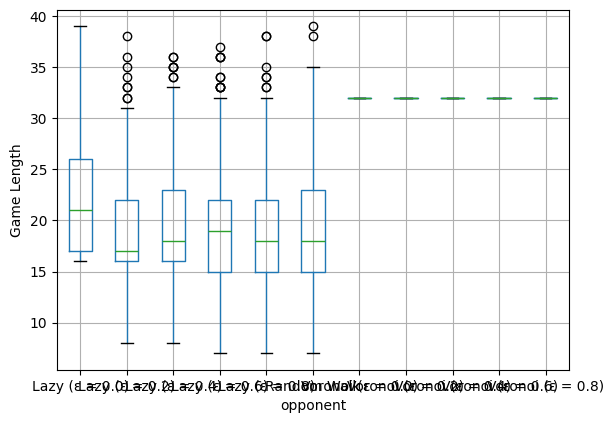
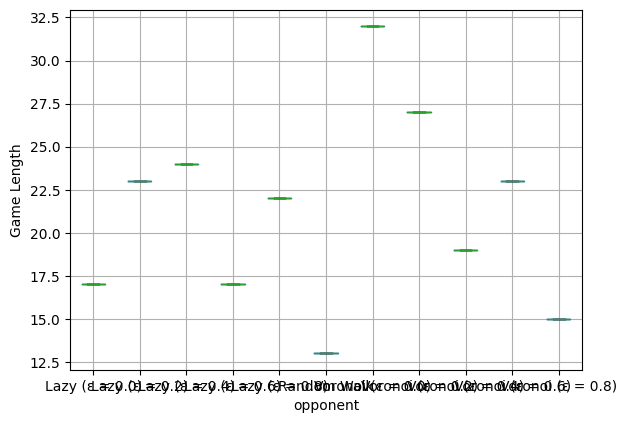
Final commit before submitting

diff --git a/src/backend/main_backend.py b/src/backend/main_backend.py
@@ -303,6 +303,7 @@ class SnakeGame:
         self.__dummy_agent = VoronoiAgent(2, 0)
         self.voronoi_ratios = []
         self.k = 0
+        self.compute_voronoi = False
 
     def reset(self):
 
@@ -339,39 +340,40 @@ class SnakeGame:
         x1, y1 = self.pos1
         x2, y2 = self.pos2
 
-        # bfs1 = self.__dummy_agent.bfs(self.pos1, self.state.copy())
-        # bfs2 = self.__dummy_agent.bfs(self.pos2, self.state.copy())
+        if self.compute_voronoi:
+            bfs1 = self.__dummy_agent.bfs(self.pos1, self.state.copy())
+            bfs2 = self.__dummy_agent.bfs(self.pos2, self.state.copy())
 
-        # interacting = ((bfs1 != 0) & (bfs2 != 0)).any()
+            interacting = ((bfs1 != 0) & (bfs2 != 0)).any()
 
-        # dummy_state1 = self.state.copy()
-        # dummy_state1[bfs1 < bfs2] = 0
-        # dummy_state1[bfs1 >= bfs2] = 1
-        # dummy_state1[self.state != 0] = 1
-        # paths = compute_paths(dummy_state1, (3, 3))
-        # try:
-        #     hamiltonian1 = max(paths, key=lambda l: len(l))
-        # except:
-        #     hamiltonian1 = []
+            dummy_state1 = self.state.copy()
+            dummy_state1[bfs1 < bfs2] = 0
+            dummy_state1[bfs1 >= bfs2] = 1
+            dummy_state1[self.state != 0] = 1
+            paths = compute_paths(dummy_state1, (3, 3))
+            try:
+                hamiltonian1 = max(paths, key=lambda l: len(l))
+            except:
+                hamiltonian1 = []
 
-        # dummy_state2 = self.state.copy()
-        # dummy_state2[bfs1 > bfs2] = 0
-        # dummy_state2[bfs1 <= bfs2] = 1
-        # dummy_state2[self.state != 0] = 1
-        # paths = compute_paths(dummy_state2, (3, 3))
-        # try:
-        #     hamiltonian2 = max(paths, key=lambda l: len(l))
-        # except:
-        #     hamiltonian2 = []
+            dummy_state2 = self.state.copy()
+            dummy_state2[bfs1 > bfs2] = 0
+            dummy_state2[bfs1 <= bfs2] = 1
+            dummy_state2[self.state != 0] = 1
+            paths = compute_paths(dummy_state2, (3, 3))
+            try:
+                hamiltonian2 = max(paths, key=lambda l: len(l))
+            except:
+                hamiltonian2 = []
 
-        # self.voronoi_ratios.append({
-        #     'k': self.k,
-        #     '1': (np.sum(dummy_state1 == 0), len(hamiltonian1)),
-        #     '2': (np.sum(dummy_state2 == 0), len(hamiltonian2)),
-        #     'interacting' : interacting
-        # })
+            self.voronoi_ratios.append({
+                'k': self.k,
+                '1': (np.sum(dummy_state1 == 0), len(hamiltonian1)),
+                '2': (np.sum(dummy_state2 == 0), len(hamiltonian2)),
+                'interacting' : interacting
+            })
 
-        # self.k += 1
+            self.k += 1
 
         self.state[x1, y1] = self.agent1.id
         self.state[x2, y2] = self.agent2.id
@@ -486,7 +488,6 @@ def compute_paths(G: np.array, pos, seen=None,path=None):
     return paths
 
 def generate_plot(data):
-    
     data.boxplot(column=['hamiltonian length'], by='voronoi cell size')
 
     cell_sizes = sorted(data['voronoi cell size'].unique().tolist())
@@ -514,11 +515,10 @@ def generate_plot_game_scores(data):
 
 if __name__ == "__main__":
 
-    # n = 5
-    # G = -np.ones((n+2, n+2))
-    # G[1:n+1, 1:n+1] = np.zeros((n, n))
-
     scores = []
+    ratios = []
+    num_repeats = 1
+    compute_voronoi = False
 
     opponents = [
         ("Random Walk", lambda: AvoidAgent(id=2)),
@@ -535,12 +535,13 @@ if __name__ == "__main__":
     ]
 
     for opp, a2 in opponents:
-        for i in range(100):
+        for i in range(num_repeats):
 
             agent1 = VoronoiAgent(id=1, forward_steps=1)
             agent2 = a2()
 
             game = SnakeGame(agent1, agent2, n=9)
+            game.compute_voronoi = compute_voronoi
             result = game.play()
             scores.append({
                 "score" : 1 if result == Result.WIN else 0,
@@ -549,101 +550,33 @@ if __name__ == "__main__":
                 "opponent" : opp
             })
 
-    df = pd.DataFrame(scores)
+            if compute_voronoi:
+                for d in game.voronoi_ratios:
+                    bfs1, h1 = d['1']
+                    bfs2, h2 = d['2']
 
+                    if h1 > 0 and bfs1 > 0:
+                        ratios.append({'hamiltonian length' : h1, 'voronoi cell size' : bfs1})
+
+                    if h2 > 0 and bfs2 > 0:
+                        ratios.append({'hamiltonian length' : h2, 'voronoi cell size' : bfs2})
+
+    # generate a sample game gif
+    agent1 = VoronoiAgent(id=1, forward_steps=1)
+    agent2 = EpsilonGreedyAgent(VoronoiAgent(id=2, forward_steps=1), epsilon=0.1)
+    game = SnakeGame(agent1, agent2, n=50)
+    result = game.play()
+    game.render_game("./data/game_viz.gif")
+
+    # print win statistics
+    df = pd.DataFrame(scores)
     print(df.groupby("opponent").agg(["mean", "std"]))
 
-    # generate_plot_game_scores(pd.DataFrame(scores))
-
-
-    # paths = compute_paths(G, (3, 3))
-    # hamiltonian = max(paths, key=lambda l: len(l))
-    # print(hamiltonian)
-
-    # agent1 = EpsilonGreedyAgent(LazyAgent(id=1, start_move=Move.DOWN), 0.1)
-    # agent2 = TabularAgent(id=2, n=50, gamma=0.99)
-    # agent1 = VoronoiAgent(id=1, forward_steps=1)
-    # agent2 = VoronoiAgent(id=2, forward_steps=2)
-    # agent2 = EpsilonGreedyAgent(LazyAgent(id=1, start_move=Move.DOWN), 0.1)
-
-    # ratios = []
-
-    # for i in range(1000):
-    #     agent1 = VoronoiAgent(id=1, forward_steps=1)
-    #     agent2 = EpsilonGreedyAgent(LazyAgent(id=1, start_move=Move.DOWN), 0.1)
-
-    #     game = SnakeGame(agent1, agent2, n=6)
-    #     result = game.play()
-
-    #     for d in game.voronoi_ratios:
-    #         bfs1, h1 = d['1']
-    #         bfs2, h2 = d['2']
-
-    #         if h1 > 0 and bfs1 > 0:
-    #             ratios.append({'hamiltonian length' : h1, 'voronoi cell size' : bfs1})
-
-    #         if h2 > 0 and bfs2 > 0:
-    #             ratios.append({'hamiltonian length' : h2, 'voronoi cell size' : bfs2})
-
-    #     # =========
-    #     agent1 = VoronoiAgent(id=1, forward_steps=1)
-    #     agent2 = VoronoiAgent(id=2, forward_steps=1)
-
-    #     game = SnakeGame(agent1, agent2, n=6)
-    #     result = game.play()
-
-    #     for d in game.voronoi_ratios:
-    #         bfs1, h1 = d['1']
-    #         bfs2, h2 = d['2']
-
-    #         if h1 > 0 and bfs1 > 0:
-    #             ratios.append({'hamiltonian length' : h1, 'voronoi cell size' : bfs1})
-
-    #         if h2 > 0 and bfs2 > 0:
-    #             ratios.append({'hamiltonian length' : h2, 'voronoi cell size' : bfs2})
-
-    #     # =========
-    #     agent1 = EpsilonGreedyAgent(LazyAgent(id=1, start_move=Move.DOWN), 0.1)
-    #     agent2 = EpsilonGreedyAgent(LazyAgent(id=2, start_move=Move.DOWN), 0.1)
-
-    #     game = SnakeGame(agent1, agent2, n=6)
-    #     result = game.play()
-
-    #     for d in game.voronoi_ratios:
-    #         bfs1, h1 = d['1']
-    #         bfs2, h2 = d['2']
-
-    #         if h1 > 0 and bfs1 > 0:
-    #             ratios.append({'hamiltonian length' : h1, 'voronoi cell size' : bfs1})
-
-    #         if h2 > 0 and bfs2 > 0:
-    #             ratios.append({'hamiltonian length' : h2, 'voronoi cell size' : bfs2})
-
-    # generate_plot(pd.DataFrame(ratios))
-
-    # print(f"Player 1 : {result}")
-    # game.render_game("./data/approx_1.gif")
+    # use this to generate win percentage plots and voronoi plots
+    generate_plot_game_scores(pd.DataFrame(scores))
+    if compute_voronoi:
+        generate_plot(pd.DataFrame(ratios))
 
     
 
-    # for _ in range(training_iterations):
-    #     agent2.reset_history()
-    #     game.reset()
-
-    #     result = game.play()
-
-    #     if result == Result.WIN :
-    #         r = -1
-    #     elif result == Result.TIE:
-    #         r = -1
-    #     else:
-    #         r = 1
-
-    #     agent2.update_weights(r)
-
-    # game.reset()
-    # result = game.play()
-    # print(f"Player 1 : {result}")
-    # game.render_game("./data/approx_n.gif")
-
-
+    

diff --git a/README.md b/README.md
@@ -1,9 +1,4 @@
-# Python-Prefab
-A premade python project with front end, back end, testing and CI pipelines.
-
-All of the documentation is generated via Sphinx and exposed via Github Pages.
-
-[Python-Prefab Documentation](https://philliams.github.io/Python-Prefab/)
+# Multi-Agent AI
 
 ## Prerequisites
 The main prerequisites for this project are:
@@ -14,12 +9,8 @@ The main prerequisites for this project are:
 
 ## Instructions
 
-To build the docker images for this project, execute `make build`. Alternatively, there are commands for building individual images.
+To build the docker image for this project, execute `make build_dev`.
 
-There are several run instruction that can be invoked:
-1. `make run_jupyter` : run the jupyter notebook, it can be accessed as `localhost:8888`
-2. `make run_backend` : run the backend FastAPI server, it can be accessed as `localhost:8000`
-3. `make run_frontend` : run the streamlit frontend server, it can be accessed as `localhost:8501`
-4. `make run_all` : run all of the servers using docker compose
+To run the script, execute `make run_script`.
 
-To clean up all the docker containers, execute `make clean`.
+![Game examples](data/game_viz.gif "Two Voronoi Agents")
